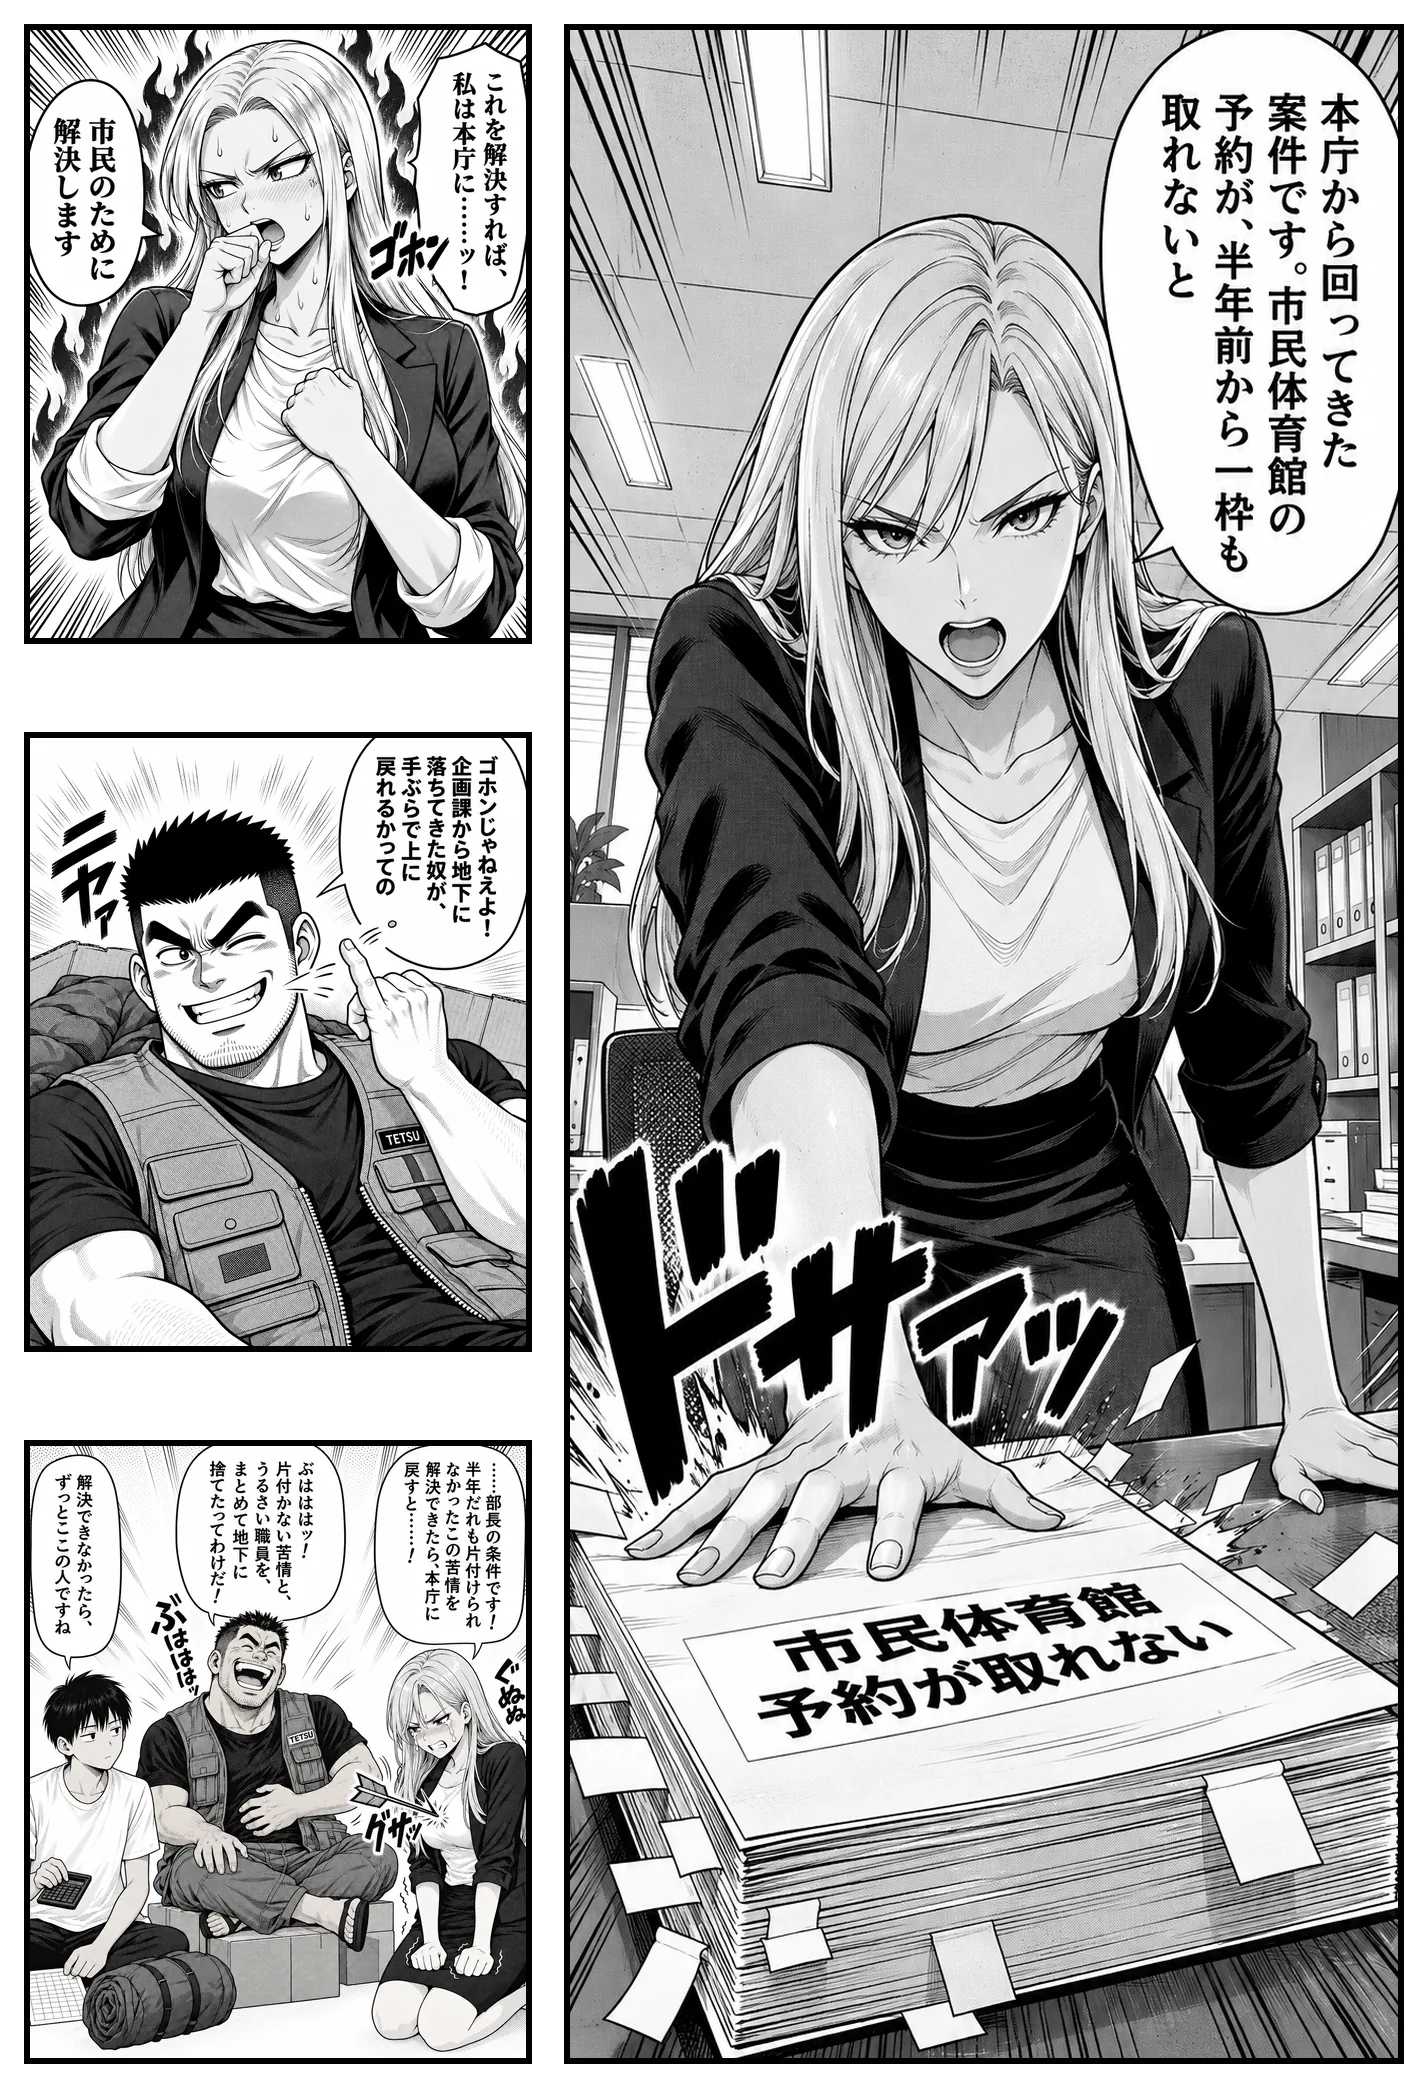
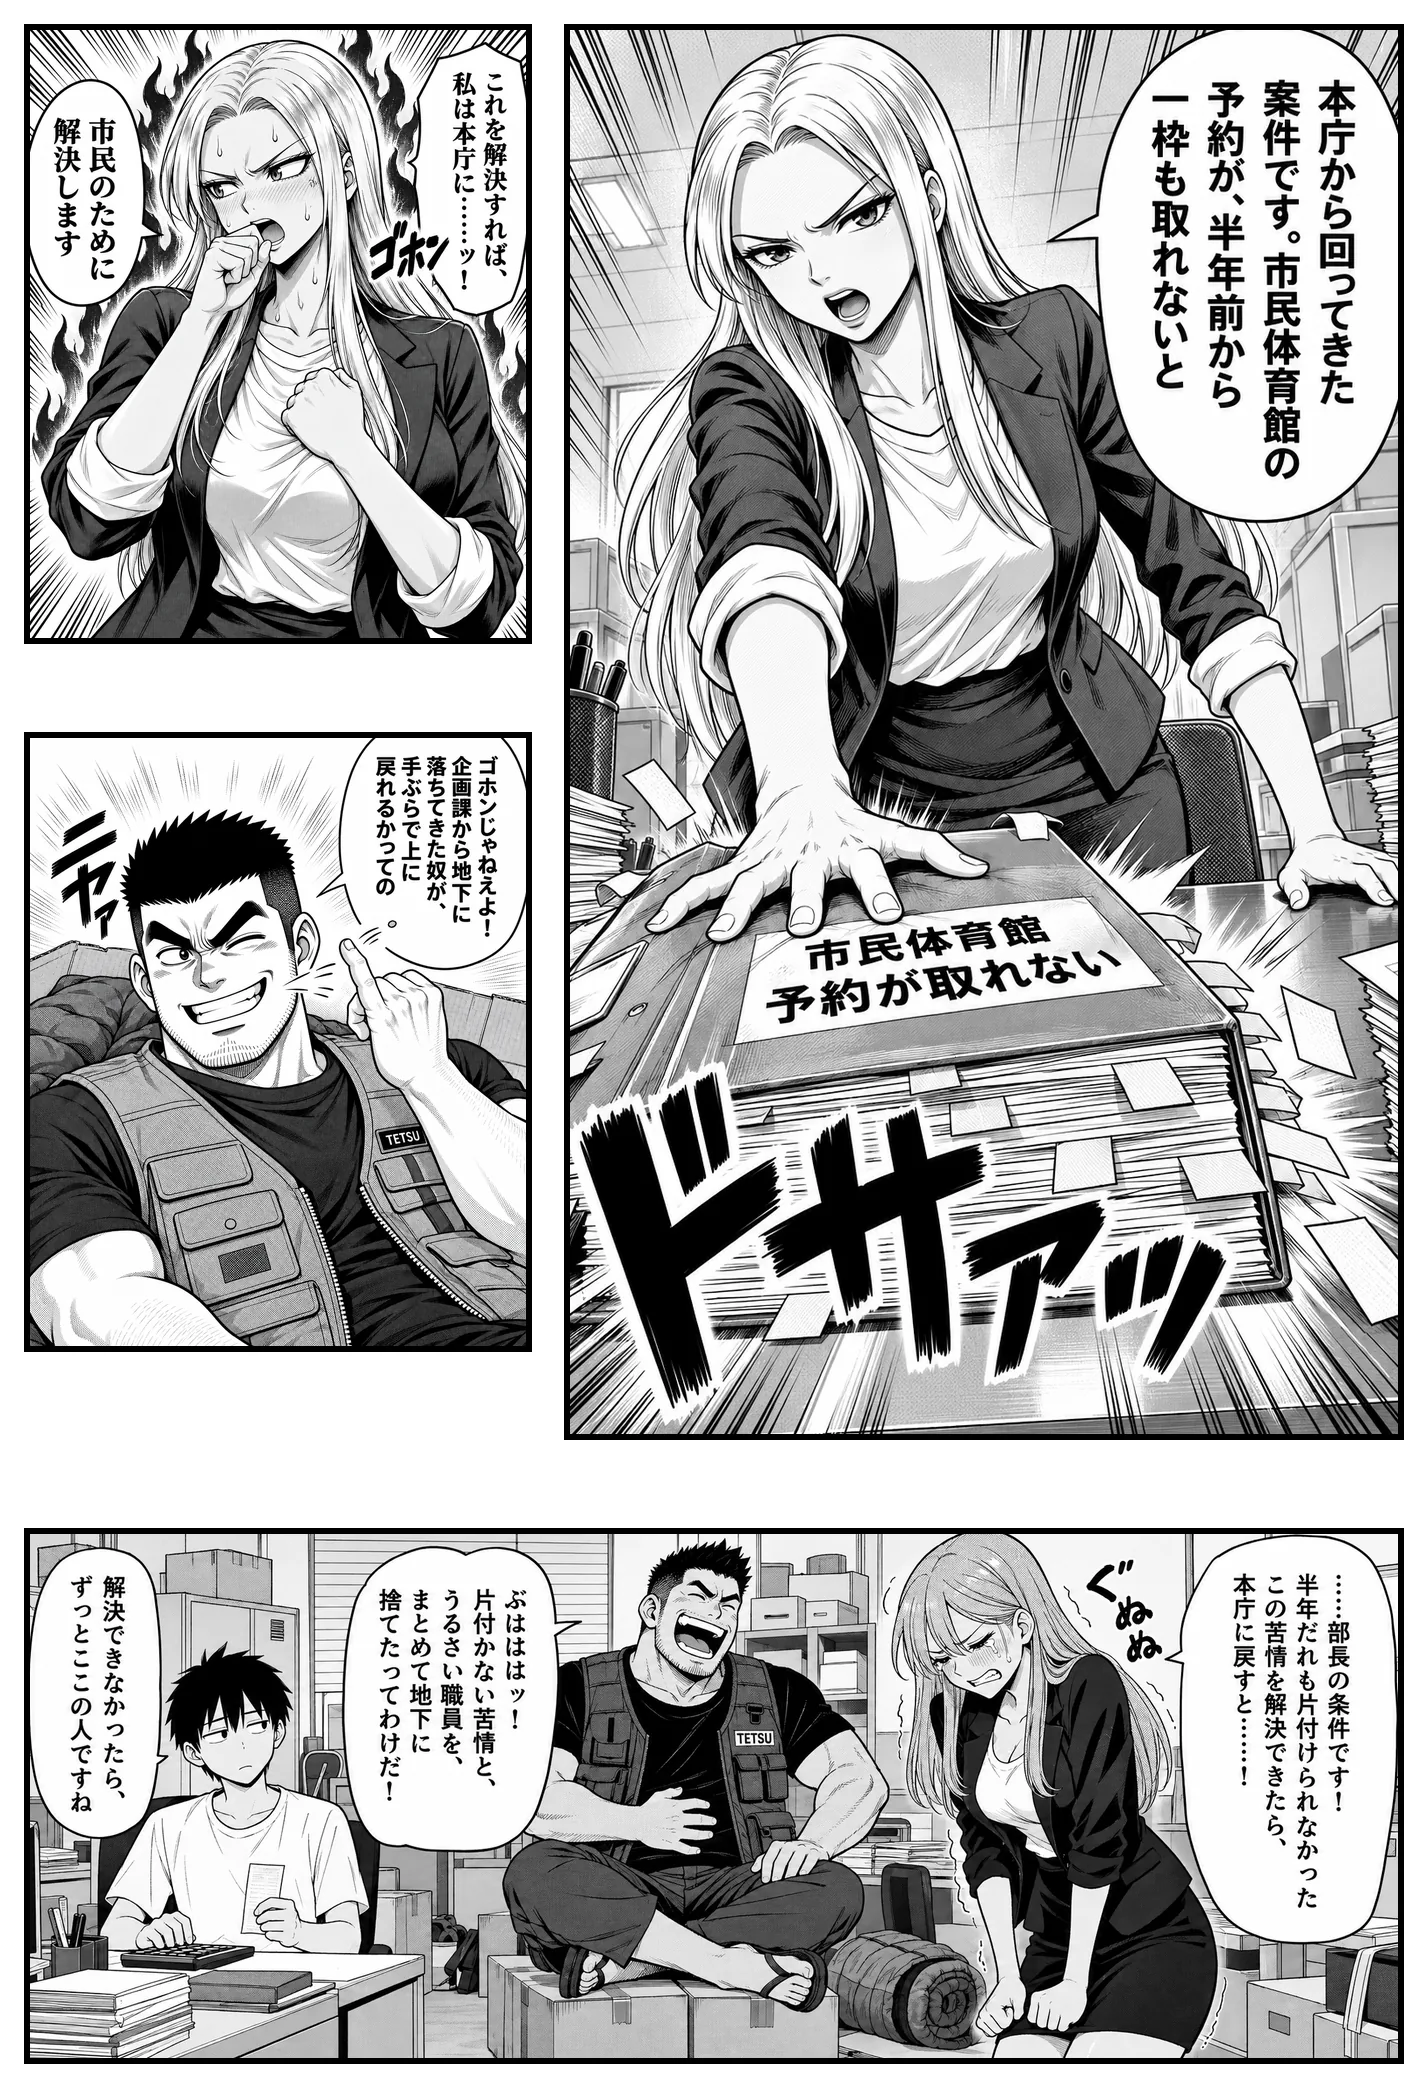
第1話 修正指示v3の9コマを直し、一覧の扉絵を切らずに出す
- P4-コマ2：レナが固まる理由（寝ているテツ・電卓のショータ・散らかった室内）を画面に入れた
- P5：右の大ゴマを短くし、いちばん下を横長に（指示のないコマ2・コマ3の大きさは据え置き）
- P5-コマ4：赤色の混入と、画面を横切る黒い矢印を取り除いた
- 顔が違う7コマは、設定画マスターの立ち絵を顔の正として描き直した
- 一覧のサムネは切り抜きをやめ、扉絵の全体を見せる（object-fit: contain）

作画に色が混ざらないよう、採用の直前に必ず白黒へ変換する手順を入れた。
既存の作画12枚（1・2・3・4・7話）に混ざっていた赤も白黒に直した。

diff --git a/assets/style.css b/assets/style.css
@@ -123,7 +123,7 @@ body { margin: 0; background: var(--bg); color: var(--fg); line-height: 1.7; }
   color: inherit; text-decoration: none; transition: border-color .15s ease, box-shadow .15s ease, transform .15s ease;
 }
 .episode:hover { border-color: var(--accent); box-shadow: 0 10px 28px rgba(15, 23, 42, .13); transform: translateY(-3px); }
-.episode img { display: block; width: 100%; height: auto; aspect-ratio: 794 / 930; object-fit: cover; object-position: top; border-bottom: 1px solid var(--line); background: #fff; }
+.episode img { display: block; width: 100%; height: auto; aspect-ratio: 7 / 10; object-fit: contain; border-bottom: 1px solid var(--line); background: #fff; }  /* 扉絵は切らずに全部見せる */
 .episode-body { display: flex; flex: 1; flex-direction: column; align-items: flex-start; padding: 16px; }
 .ep-pick { display: inline-block; margin: 0 6px 8px 0; color: var(--comic-red); font-size: 12px; font-weight: 800; letter-spacing: .04em; }
 .ep-num { display: inline-block; font-size: 13px; font-weight: 700; color: #fff; background: var(--primary); border-radius: 999px; padding: 2px 12px; }
@@ -154,7 +154,7 @@ a:focus-visible { outline: 2px solid var(--accent); outline-offset: 3px; }
   .charas { grid-template-columns: 1fr; }
   .episodes { grid-template-columns: 1fr; }
   .episode { display: grid; grid-template-columns: 160px 1fr; }
-  .episode img { height: 100%; aspect-ratio: auto; object-fit: cover; object-position: top; border: 0; border-right: 1px solid var(--line); }
+  .episode img { height: 100%; aspect-ratio: auto; object-fit: contain; border: 0; border-right: 1px solid var(--line); }
 }
 @media (max-width: 560px) {
   .section { padding: 36px 0; }
